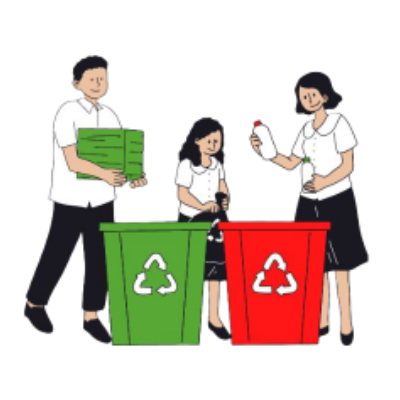
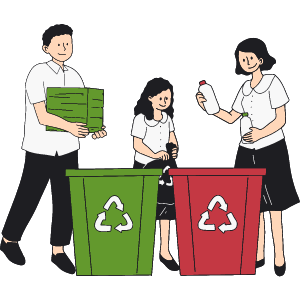
Ajuste no hover dos buttons, responsividade e imagem do cadastro

diff --git a/src/css/style__ong.css b/src/css/style__ong.css
@@ -36,10 +36,11 @@ ul {
     flex-direction: column;
     justify-content: space-around;
     align-items: flex-start;
+    margin-top: -9%;
 }
 
 .ong__imagens #imagens__container .container__item img {
-    width: 350px;
+    width: 300px;
     display: block;
     margin: 0 auto;
 }
@@ -65,20 +66,22 @@ ul {
 }
 
 .informations__description h1 {
-    font-size: 1.5em;
+    font-size: 1.3em;
 }
 
 .informations__description span {
-    font-size: 1.05em;
-    font-weight: bold;
+    font-size: 1em;
+    font-weight: 700;
 }
 
 .informations__description p {
-    font-weight: 500;
+    font-weight: normal;
     text-align: justify;
-    font-size: 1.15em;
+    font-size: 1em;
 }
-
+.description__about{
+    margin-bottom: 15px;
+}
 #description__social {
     display: block;
     width: 100%;
@@ -109,8 +112,16 @@ button {
     color: #fff;
     border-radius: 5px;
     cursor: pointer;
+    font-weight: bold;
+    transition: 0.7s;
 }
-
+input[type='button']:hover,
+button:hover {
+    border: #00a1ff solid 1px;
+    color: #00a1ff;
+    background-color: #fff;
+    transition: 0.7s;
+}
 input[type='button'] {
     width: 200px;
     padding: 10px;
@@ -122,7 +133,7 @@ input[type='button'] {
 
 .informations__comments {
     display: flex;
-    justify-content: space-evenly;
+    justify-content:left;
     align-items: center;
     width: 100%;
 }
@@ -132,10 +143,13 @@ input[type='button'] {
     resize: none;
     border: 1px solid black;
 }
-
+#comments::placeholder{
+    padding-left: 10px;
+    padding-top: 2px;
+}
 .buttons__container {
     width: 13%;
-    margin-left: 50px;
+    margin-left: 2%;
 }
 
 button {
@@ -153,8 +167,10 @@ button img {
 }
 
 button p {
-    display: inline;
+    display: flex;
     vertical-align: 5px;
+    align-items: center;
+    justify-content: space-around;
 }
 
 /* Responsividade */
@@ -204,6 +220,7 @@ button p {
     .ong__informations {
         width: 100%;
         padding: 50px;
+        margin: 0%;
     }
 
     .informations__comments {

diff --git a/src/css/style__cadastrar.css b/src/css/style__cadastrar.css
@@ -10,12 +10,14 @@
     height: calc(100% - 63px);
     display: flex;
     justify-content: space-evenly;
-    align-items: center;
+    align-items: top;
     position: relative;
+    padding-top: 5%;
 }
 
 #cadastro__section div img {
     width: 400px;
+    margin-top: 20%;
 }
 
 /* Formulario */
@@ -121,23 +123,27 @@ label[for="termos"],
     width: 100%;
     padding: 8px 10px;
     font-size: 15px;
-    border: 0;
     background: #00a1ff;
     color: #fff;
     cursor: pointer;
     border-radius: 3px;
     outline: none;
+    transition: 0.7s;
+    border: #00a1ff solid 1px;
 }
 
 .options__submit:hover {
-    background: rgba(0, 162, 255, 0.856)
+    border: #00a1ff solid 1px;
+    color: #00a1ff;
+    background-color: #fff;
+    transition: 0.7s;
 }
 
 
 /* Três botões */
 .section__radio {
     position: absolute;
-    top: 85%;
+    top: 80%;
 }
 
 .radio__group {
@@ -249,10 +255,17 @@ input[type="checkbox"] {
 
     #cadastro__section {
         flex-direction: column-reverse;
+        padding: 0;
+        align-items: center;
+        margin-top: 10%;
     }
-
+    #cadastro__section div img {
+        width: 300px;
+        margin:0;
+    }
     .section__radio {
-        top: 94.5%;
+        top: 98%;
+        margin-top: 2%;
     }
 
     label[for="termos"] {
@@ -285,13 +298,23 @@ input[type="checkbox"] {
         display: none;
     }
     .section__form {
-        height: 85%;
+        height: 100%;
     }
     .group__text,.group__about  {
         width: 90%;
     }
     .radio__span-two:before, .radio__span-two:after{
         width: 15%;
+    }
+    #cadastro__section{
+        margin-top: 5%;
+    }
+    .about__radios{
+        height: 170px;
+    }
+    .section__radio {
+        top: 92%;
+        margin-top: 0;
     }
 
 }
